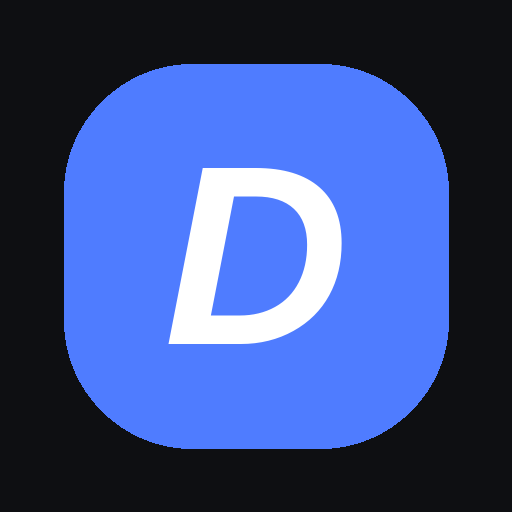
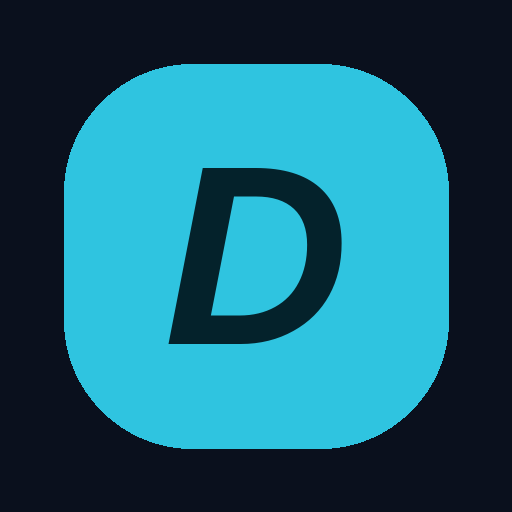
Redesign UI: night/sky palette, sky bubbles, floating input, typing dots, code copy
Claude-Session: https://claude.ai/code/session_0179iob4wujxLG2Lv9DqZK2n

diff --git a/App.js b/App.js
@@ -26,20 +26,24 @@ const MAX_FILE_BYTES = 12 * 1024 * 1024;
 const DRAWER_W = Math.min(330, Dimensions.get('window').width * 0.84);
 
 const C = {
-  bg: '#0e0f12',
-  surface: '#1a1b20',
-  surface2: '#23242a',
-  border: '#2c2d34',
-  text: '#ececf1',
-  muted: '#8e8ea0',
-  accent: '#4f7cff',
-  danger: '#ff6b6b',
+  bg: '#0A101D',
+  surface: '#111A2C',
+  surface2: '#192640',
+  border: '#243453',
+  text: '#EAF0FA',
+  muted: '#8696B3',
+  accent: '#2FC4E0',
+  accentInk: '#04222B',
+  gold: '#F2C14E',
+  goldInk: '#2B2005',
+  danger: '#FF6B6B',
 };
 
 const SUGGESTIONS = [
-  'Қазақстан туралы қызықты дерек айт',
-  'Мәтінді қысқаша түйіндеп бер',
-  'Бизнес-идея ұсын',
+  { icon: 'earth-outline', t: 'Қазақстан туралы қызықты дерек айт' },
+  { icon: 'document-text-outline', t: 'Мәтінді қысқаша түйіндеп бер' },
+  { icon: 'bulb-outline', t: 'Бизнес-идея ұсын' },
+  { icon: 'code-slash-outline', t: 'Python-да қарапайым бот жазып бер' },
 ];
 
 // Файл мазмұны (data) жадта ғана тұрады, тарихқа аты мен түрі сақталады
@@ -91,7 +95,7 @@ const inline = (str) =>
   });
 
 // Жауапты мәтін мен код блоктарына бөледі (``` ... ```)
-function RichText({ text }) {
+function RichText({ text, onCopy, copied }) {
   const parts = String(text).split('```');
   return (
     <View style={s.rich}>
@@ -102,7 +106,13 @@ function RichText({ text }) {
           const code = (nl > -1 ? part.slice(nl + 1) : part).replace(/\n$/, '');
           return (
             <View key={i} style={s.codeBox}>
-              {!!lang && <Text style={s.codeLang}>{lang}</Text>}
+              <View style={s.codeHead}>
+                <Text style={s.codeLang}>{lang || 'код'}</Text>
+                <TouchableOpacity onPress={() => onCopy(code)} hitSlop={10} style={s.codeCopy}>
+                  <Ionicons name={copied === code ? 'checkmark' : 'copy-outline'} size={15} color={C.muted} />
+                  <Text style={s.codeCopyText}>{copied === code ? 'Көшірілді' : 'Көшіру'}</Text>
+                </TouchableOpacity>
+              </View>
               <ScrollView horizontal showsHorizontalScrollIndicator={false}>
                 <Text style={s.codeText} selectable>{code}</Text>
               </ScrollView>
@@ -128,6 +138,32 @@ function RichText({ text }) {
           </Text>
         );
       })}
+    </View>
+  );
+}
+
+// Жауап күтіліп жатқанда үш нүкте кезекпен жанады
+function TypingDots() {
+  const dots = useRef([0, 1, 2].map(() => new Animated.Value(0.3))).current;
+  useEffect(() => {
+    const loops = dots.map((v, i) =>
+      Animated.loop(
+        Animated.sequence([
+          Animated.delay(i * 160),
+          Animated.timing(v, { toValue: 1, duration: 320, useNativeDriver: true }),
+          Animated.timing(v, { toValue: 0.3, duration: 320, useNativeDriver: true }),
+          Animated.delay((2 - i) * 160),
+        ])
+      )
+    );
+    loops.forEach((l) => l.start());
+    return () => loops.forEach((l) => l.stop());
+  }, []);
+  return (
+    <View style={s.dots}>
+      {dots.map((v, i) => (
+        <Animated.View key={i} style={[s.dot, { opacity: v }]} />
+      ))}
     </View>
   );
 }
@@ -543,7 +579,7 @@ function Main() {
       <View style={s.botRow}>
         <Image source={require('./assets/dux-icon.png')} style={s.botAvatar} />
         <View style={s.botBody}>
-          <RichText text={item.text} />
+          <RichText text={item.text} onCopy={copyText} copied={copied} />
           <TouchableOpacity onPress={() => copyText(item.text)} hitSlop={10} style={s.copyBtn}>
             <Ionicons name={copied === item.text ? 'checkmark' : 'copy-outline'} size={17} color={C.muted} />
           </TouchableOpacity>
@@ -604,7 +640,7 @@ function Main() {
           />
         </View>
         <TouchableOpacity style={[s.newBtn, s.loginBtn, busy && s.sendOff]} onPress={submitAuth} disabled={busy}>
-          {busy ? <ActivityIndicator color="#fff" /> : <Text style={s.newBtnText}>{mode === 'up' ? 'Тіркелу' : 'Кіру'}</Text>}
+          {busy ? <ActivityIndicator color={C.accentInk} /> : <Text style={s.newBtnText}>{mode === 'up' ? 'Тіркелу' : 'Кіру'}</Text>}
         </TouchableOpacity>
         <TouchableOpacity onPress={() => setMode(mode === 'up' ? 'in' : 'up')} hitSlop={10}>
           <Text style={s.authSwitch}>{mode === 'up' ? 'Аккаунт бар ма? Кіру' : 'Аккаунт жоқ па? Тіркелу'}</Text>
@@ -636,12 +672,15 @@ function Main() {
           ListEmptyComponent={
             <View style={s.empty}>
               <Image source={require('./assets/dux-icon.png')} style={s.logo} />
-              <Text style={s.hello}>Сәлем, {profile ? profile.name : ''}!</Text>
-              <Text style={s.hint}>Сұрақ қойыңыз, фото, видео немесе файл жіберіңіз</Text>
+              <Text style={s.hello}>Сәлем, {profile ? profile.name : ''}</Text>
+              <Text style={s.hint}>Сұрақ қойыңыз немесе фото, видео, файл жіберіңіз</Text>
               <View style={s.chips}>
-                {SUGGESTIONS.map((t) => (
-                  <TouchableOpacity key={t} style={s.chip} onPress={() => setInput(t)}>
-                    <Text style={s.chipText}>{t}</Text>
+                {SUGGESTIONS.map((x) => (
+                  <TouchableOpacity key={x.t} style={s.chip} onPress={() => setInput(x.t)}>
+                    <View style={s.chipIcon}>
+                      <Ionicons name={x.icon} size={20} color={C.accent} />
+                    </View>
+                    <Text style={s.chipText}>{x.t}</Text>
                   </TouchableOpacity>
                 ))}
               </View>
@@ -652,8 +691,7 @@ function Main() {
             loading ? (
               <View style={s.botRow}>
                 <Image source={require('./assets/dux-icon.png')} style={s.botAvatar} />
-                <ActivityIndicator color={C.accent} />
-                <Text style={s.thinking}>Ойланып жатыр...</Text>
+                <TypingDots />
               </View>
             ) : null
           }
@@ -679,10 +717,10 @@ function Main() {
         )}
 
         <View style={s.bar}>
-          <TouchableOpacity style={s.plusBtn} onPress={() => setSheet(true)} disabled={loading}>
-            <Ionicons name="add" size={26} color={C.text} />
-          </TouchableOpacity>
           <View style={s.inputWrap}>
+            <TouchableOpacity style={s.plusBtn} onPress={() => setSheet(true)} disabled={loading}>
+              <Ionicons name="add" size={24} color={C.text} />
+            </TouchableOpacity>
             <TextInput
               style={s.input}
               value={input}
@@ -691,14 +729,14 @@ function Main() {
               placeholder="Хабарлама жазыңыз..."
               placeholderTextColor={C.muted}
             />
+            <TouchableOpacity
+              style={[s.sendBtn, !canSend && s.sendOff]}
+              onPress={send}
+              disabled={!canSend}
+            >
+              <Ionicons name="arrow-up" size={20} color={C.accentInk} />
+            </TouchableOpacity>
           </View>
-          <TouchableOpacity
-            style={[s.sendBtn, !canSend && s.sendOff]}
-            onPress={send}
-            disabled={!canSend}
-          >
-            <Ionicons name="arrow-up" size={22} color="#fff" />
-          </TouchableOpacity>
         </View>
       </KeyboardAvoidingView>
     );
@@ -822,7 +860,7 @@ function Main() {
                 <Text style={s.cardTitle}>Бүгінгі қолдану</Text>
                 <Text style={s.usageNum}>{used} / {limit}</Text>
                 <View style={s.bar2}>
-                  <View style={[s.bar2Fill, { width: Math.min(100, (used / limit) * 100) + '%' }]} />
+                  <View style={[s.bar2Fill, { width: Math.min(100, (used / limit) * 100) + '%', backgroundColor: used / limit > 0.9 ? C.danger : premium ? C.gold : C.accent }]} />
                 </View>
                 <Text style={s.cardHint}>Лимит әр күні түнгі 00:00-де жаңарады</Text>
               </View>
@@ -896,43 +934,50 @@ const s = StyleSheet.create({
   screen: { flex: 1, backgroundColor: C.bg },
   flex: { flex: 1 },
 
-  header: { flexDirection: 'row', alignItems: 'center', paddingHorizontal: 10, paddingVertical: 8 },
-  headerTitle: { flex: 1, color: C.text, fontSize: 17, fontWeight: '600', textAlign: 'center', paddingHorizontal: 8 },
+  header: { flexDirection: 'row', alignItems: 'center', paddingHorizontal: 8, paddingVertical: 6, borderBottomWidth: StyleSheet.hairlineWidth, borderBottomColor: C.border },
+  headerTitle: { flex: 1, color: C.text, fontSize: 17, fontWeight: '600', letterSpacing: -0.2, textAlign: 'center', paddingHorizontal: 8 },
   iconBtn: { width: 40, height: 40, alignItems: 'center', justifyContent: 'center' },
 
-  list: { padding: 16, paddingBottom: 8, gap: 18, flexGrow: 1 },
+  list: { padding: 16, paddingBottom: 12, gap: 22, flexGrow: 1 },
 
   userBubble: {
-    alignSelf: 'flex-end', maxWidth: '85%', backgroundColor: C.surface2,
-    paddingHorizontal: 16, paddingVertical: 11, borderRadius: 20, borderBottomRightRadius: 6, gap: 8,
+    alignSelf: 'flex-end', maxWidth: '82%', backgroundColor: C.accent,
+    paddingHorizontal: 16, paddingVertical: 11, borderRadius: 22, borderBottomRightRadius: 6, gap: 8,
   },
-  userText: { color: C.text, fontSize: 16, lineHeight: 23 },
+  userText: { color: C.accentInk, fontSize: 16, lineHeight: 23, fontWeight: '500' },
   msgImage: { width: 220, height: 220, borderRadius: 14 },
   fileRow: { flexDirection: 'row', alignItems: 'center', gap: 10 },
-  fileName: { color: C.text, flexShrink: 1 },
+  fileName: { color: C.accentInk, flexShrink: 1, fontWeight: '500' },
   thumbIcon: { backgroundColor: C.surface, borderRadius: 10, alignItems: 'center', justifyContent: 'center' },
 
-  botRow: { flexDirection: 'row', gap: 10, alignItems: 'flex-start', paddingRight: 12 },
-  botAvatar: { width: 28, height: 28, borderRadius: 8, marginTop: 2 },
+  botRow: { flexDirection: 'row', gap: 12, alignItems: 'flex-start', paddingRight: 8 },
+  botAvatar: { width: 28, height: 28, borderRadius: 9, marginTop: 2 },
   botBody: { flex: 1, gap: 6 },
-  rich: { gap: 10 },
-  heading: { fontWeight: '700', fontSize: 17 },
-  copyBtn: { alignSelf: 'flex-start', padding: 2 },
-  botText: { color: C.text, fontSize: 16, lineHeight: 24 },
+  rich: { gap: 12 },
+  botText: { color: C.text, fontSize: 16, lineHeight: 25 },
+  heading: { color: C.text, fontWeight: '700', fontSize: 18, letterSpacing: -0.2 },
   bold: { fontWeight: '700' },
-  inlineCode: { fontFamily: MONO, backgroundColor: C.surface2, color: '#ffb86c' },
-  codeBox: { backgroundColor: '#0a0b0d', borderColor: C.border, borderWidth: 1, borderRadius: 12, padding: 12, gap: 6 },
-  codeLang: { color: C.muted, fontSize: 12 },
-  codeText: { color: '#d6e2ff', fontFamily: MONO, fontSize: 13.5, lineHeight: 20 },
-  thinking: { color: C.muted, fontSize: 15 },
+  inlineCode: { fontFamily: MONO, backgroundColor: C.surface2, color: C.gold },
+  copyBtn: { alignSelf: 'flex-start', padding: 2 },
 
-  empty: { alignItems: 'center', paddingTop: 70, gap: 10, paddingHorizontal: 10 },
-  logo: { width: 84, height: 84, borderRadius: 22, marginBottom: 6 },
-  hello: { color: C.text, fontSize: 24, fontWeight: '700' },
-  hint: { color: C.muted, textAlign: 'center', fontSize: 15 },
-  chips: { marginTop: 22, gap: 10, alignSelf: 'stretch' },
-  chip: { backgroundColor: C.surface, borderColor: C.border, borderWidth: 1, borderRadius: 16, paddingVertical: 13, paddingHorizontal: 16 },
-  chipText: { color: C.text, fontSize: 15 },
+  codeBox: { backgroundColor: '#070B14', borderColor: C.border, borderWidth: 1, borderRadius: 14, overflow: 'hidden' },
+  codeHead: { flexDirection: 'row', alignItems: 'center', justifyContent: 'space-between', paddingHorizontal: 12, paddingVertical: 8, backgroundColor: C.surface, borderBottomWidth: StyleSheet.hairlineWidth, borderBottomColor: C.border },
+  codeLang: { color: C.muted, fontSize: 12 },
+  codeCopy: { flexDirection: 'row', alignItems: 'center', gap: 5 },
+  codeCopyText: { color: C.muted, fontSize: 12 },
+  codeText: { color: '#CFE3F5', fontFamily: MONO, fontSize: 13.5, lineHeight: 20, padding: 12 },
+
+  dots: { flexDirection: 'row', gap: 6, alignItems: 'center', height: 28 },
+  dot: { width: 8, height: 8, borderRadius: 4, backgroundColor: C.accent },
+
+  empty: { alignItems: 'flex-start', paddingTop: 36, gap: 10, paddingHorizontal: 4 },
+  logo: { width: 56, height: 56, borderRadius: 16, marginBottom: 14 },
+  hello: { color: C.text, fontSize: 32, lineHeight: 38, fontWeight: '700', letterSpacing: -0.8 },
+  hint: { color: C.muted, fontSize: 16, lineHeight: 23 },
+  chips: { marginTop: 26, gap: 10, alignSelf: 'stretch' },
+  chip: { flexDirection: 'row', alignItems: 'center', gap: 14, backgroundColor: C.surface, borderColor: C.border, borderWidth: 1, borderRadius: 16, padding: 14 },
+  chipIcon: { width: 38, height: 38, borderRadius: 12, backgroundColor: C.surface2, alignItems: 'center', justifyContent: 'center' },
+  chipText: { flex: 1, color: C.text, fontSize: 15.5, lineHeight: 21 },
 
   preview: {
     flexDirection: 'row', alignItems: 'center', gap: 10, marginHorizontal: 12, marginBottom: 6,
@@ -940,28 +985,27 @@ const s = StyleSheet.create({
   },
   previewName: { flex: 1, color: C.text },
 
-  bar: { flexDirection: 'row', alignItems: 'flex-end', paddingHorizontal: 10, paddingTop: 4, paddingBottom: 10, gap: 8 },
-  plusBtn: { width: 44, height: 44, borderRadius: 22, backgroundColor: C.surface2, alignItems: 'center', justifyContent: 'center' },
-  inputWrap: { flex: 1, backgroundColor: C.surface, borderRadius: 24, borderWidth: 1, borderColor: C.border, paddingHorizontal: 16 },
-  input: { color: C.text, fontSize: 16, maxHeight: 130, minHeight: 42, paddingVertical: 10 },
-  sendBtn: { width: 44, height: 44, borderRadius: 22, backgroundColor: C.accent, alignItems: 'center', justifyContent: 'center' },
-  sendOff: { backgroundColor: C.surface2, opacity: 0.6 },
+  bar: { paddingHorizontal: 12, paddingTop: 6, paddingBottom: 10 },
+  inputWrap: { flexDirection: 'row', alignItems: 'flex-end', gap: 4, backgroundColor: C.surface, borderRadius: 26, borderWidth: 1, borderColor: C.border, padding: 5 },
+  plusBtn: { width: 38, height: 38, borderRadius: 19, backgroundColor: C.surface2, alignItems: 'center', justifyContent: 'center' },
+  input: { flex: 1, color: C.text, fontSize: 16, maxHeight: 130, minHeight: 38, paddingVertical: 8, paddingHorizontal: 8 },
+  sendBtn: { width: 38, height: 38, borderRadius: 19, backgroundColor: C.accent, alignItems: 'center', justifyContent: 'center' },
+  sendOff: { backgroundColor: C.surface2, opacity: 0.5 },
 
   backdrop: { ...StyleSheet.absoluteFillObject, backgroundColor: '#000' },
   drawer: { position: 'absolute', top: 0, bottom: 0, left: 0, backgroundColor: C.surface, paddingHorizontal: 14, paddingTop: 14, borderRightWidth: 1, borderRightColor: C.border },
   drawerHead: { flexDirection: 'row', alignItems: 'center', gap: 10, marginBottom: 18, paddingHorizontal: 4 },
   drawerLogo: { width: 34, height: 34, borderRadius: 10 },
-  drawerTitle: { color: C.text, fontSize: 22, fontWeight: '700' },
+  drawerTitle: { color: C.text, fontSize: 22, fontWeight: '700', letterSpacing: -0.4 },
   newBtn: { flexDirection: 'row', alignItems: 'center', justifyContent: 'center', gap: 6, backgroundColor: C.accent, borderRadius: 16, paddingVertical: 13 },
-  newBtnText: { color: '#fff', fontSize: 16, fontWeight: '600' },
-  section: { color: C.muted, fontSize: 13, marginTop: 22, marginBottom: 8, paddingHorizontal: 4 },
+  newBtnText: { color: C.accentInk, fontSize: 16, fontWeight: '700' },
+  section: { color: C.muted, fontSize: 13, fontWeight: '600', marginTop: 22, marginBottom: 8, paddingHorizontal: 4 },
   noChats: { color: C.muted, paddingHorizontal: 4, paddingTop: 6 },
   chatItem: { flexDirection: 'row', alignItems: 'center', gap: 12, paddingVertical: 13, paddingHorizontal: 12, borderRadius: 14 },
   chatItemActive: { backgroundColor: C.surface2 },
   chatTitle: { flex: 1, color: C.text, fontSize: 15 },
 
   loginWrap: { alignItems: 'center', justifyContent: 'center', paddingHorizontal: 24, gap: 12 },
-  loginInputWrap: { alignSelf: 'stretch', backgroundColor: C.surface, borderRadius: 16, borderWidth: 1, borderColor: C.border, paddingHorizontal: 16, marginTop: 18 },
   loginInput: { color: C.text, fontSize: 17, minHeight: 50 },
   loginBtn: { alignSelf: 'stretch' },
   authField: { alignSelf: 'stretch', backgroundColor: C.surface, borderRadius: 16, borderWidth: 1, borderColor: C.border, paddingHorizontal: 16 },
@@ -969,14 +1013,14 @@ const s = StyleSheet.create({
 
   profileRow: { flexDirection: 'row', alignItems: 'center', gap: 12, paddingVertical: 14, paddingHorizontal: 4, borderTopWidth: 1, borderTopColor: C.border },
   avatar: { width: 36, height: 36, borderRadius: 18, backgroundColor: C.accent, alignItems: 'center', justifyContent: 'center' },
-  avatarText: { color: '#fff', fontSize: 16, fontWeight: '700' },
+  avatarText: { color: C.accentInk, fontSize: 16, fontWeight: '700' },
   profileName: { flex: 1, color: C.text, fontSize: 16 },
-
   badge: { color: C.muted, fontSize: 12, fontWeight: '700', backgroundColor: C.surface2, paddingHorizontal: 8, paddingVertical: 4, borderRadius: 8, overflow: 'hidden' },
-  badgePro: { color: '#fff', backgroundColor: C.accent },
+  badgePro: { color: C.goldInk, backgroundColor: C.gold },
+
   setList: { padding: 16, gap: 14 },
   card: { backgroundColor: C.surface, borderRadius: 18, borderWidth: 1, borderColor: C.border, padding: 16, gap: 8 },
-  cardPro: { borderColor: C.accent },
+  cardPro: { borderColor: C.gold },
   cardTitle: { color: C.text, fontSize: 17, fontWeight: '700' },
   cardHint: { color: C.muted, fontSize: 13 },
   profileRow2: { flexDirection: 'row', alignItems: 'center', gap: 12 },
@@ -990,7 +1034,7 @@ const s = StyleSheet.create({
   ghostBtn: { alignItems: 'center', paddingVertical: 14, borderRadius: 14, borderWidth: 1, borderColor: C.border },
   ghostText: { color: C.text, fontSize: 16 },
 
-  sheetBackdrop: { flex: 1, backgroundColor: 'rgba(0,0,0,0.55)', justifyContent: 'flex-end' },
+  sheetBackdrop: { flex: 1, backgroundColor: 'rgba(0,0,0,0.6)', justifyContent: 'flex-end' },
   sheet: { backgroundColor: C.surface, borderTopLeftRadius: 24, borderTopRightRadius: 24, paddingHorizontal: 16, paddingBottom: 28, paddingTop: 10 },
   grabber: { alignSelf: 'center', width: 40, height: 4, borderRadius: 2, backgroundColor: C.border, marginBottom: 10 },
   sheetRow: { flexDirection: 'row', alignItems: 'center', gap: 16, paddingVertical: 16, paddingHorizontal: 8 },
